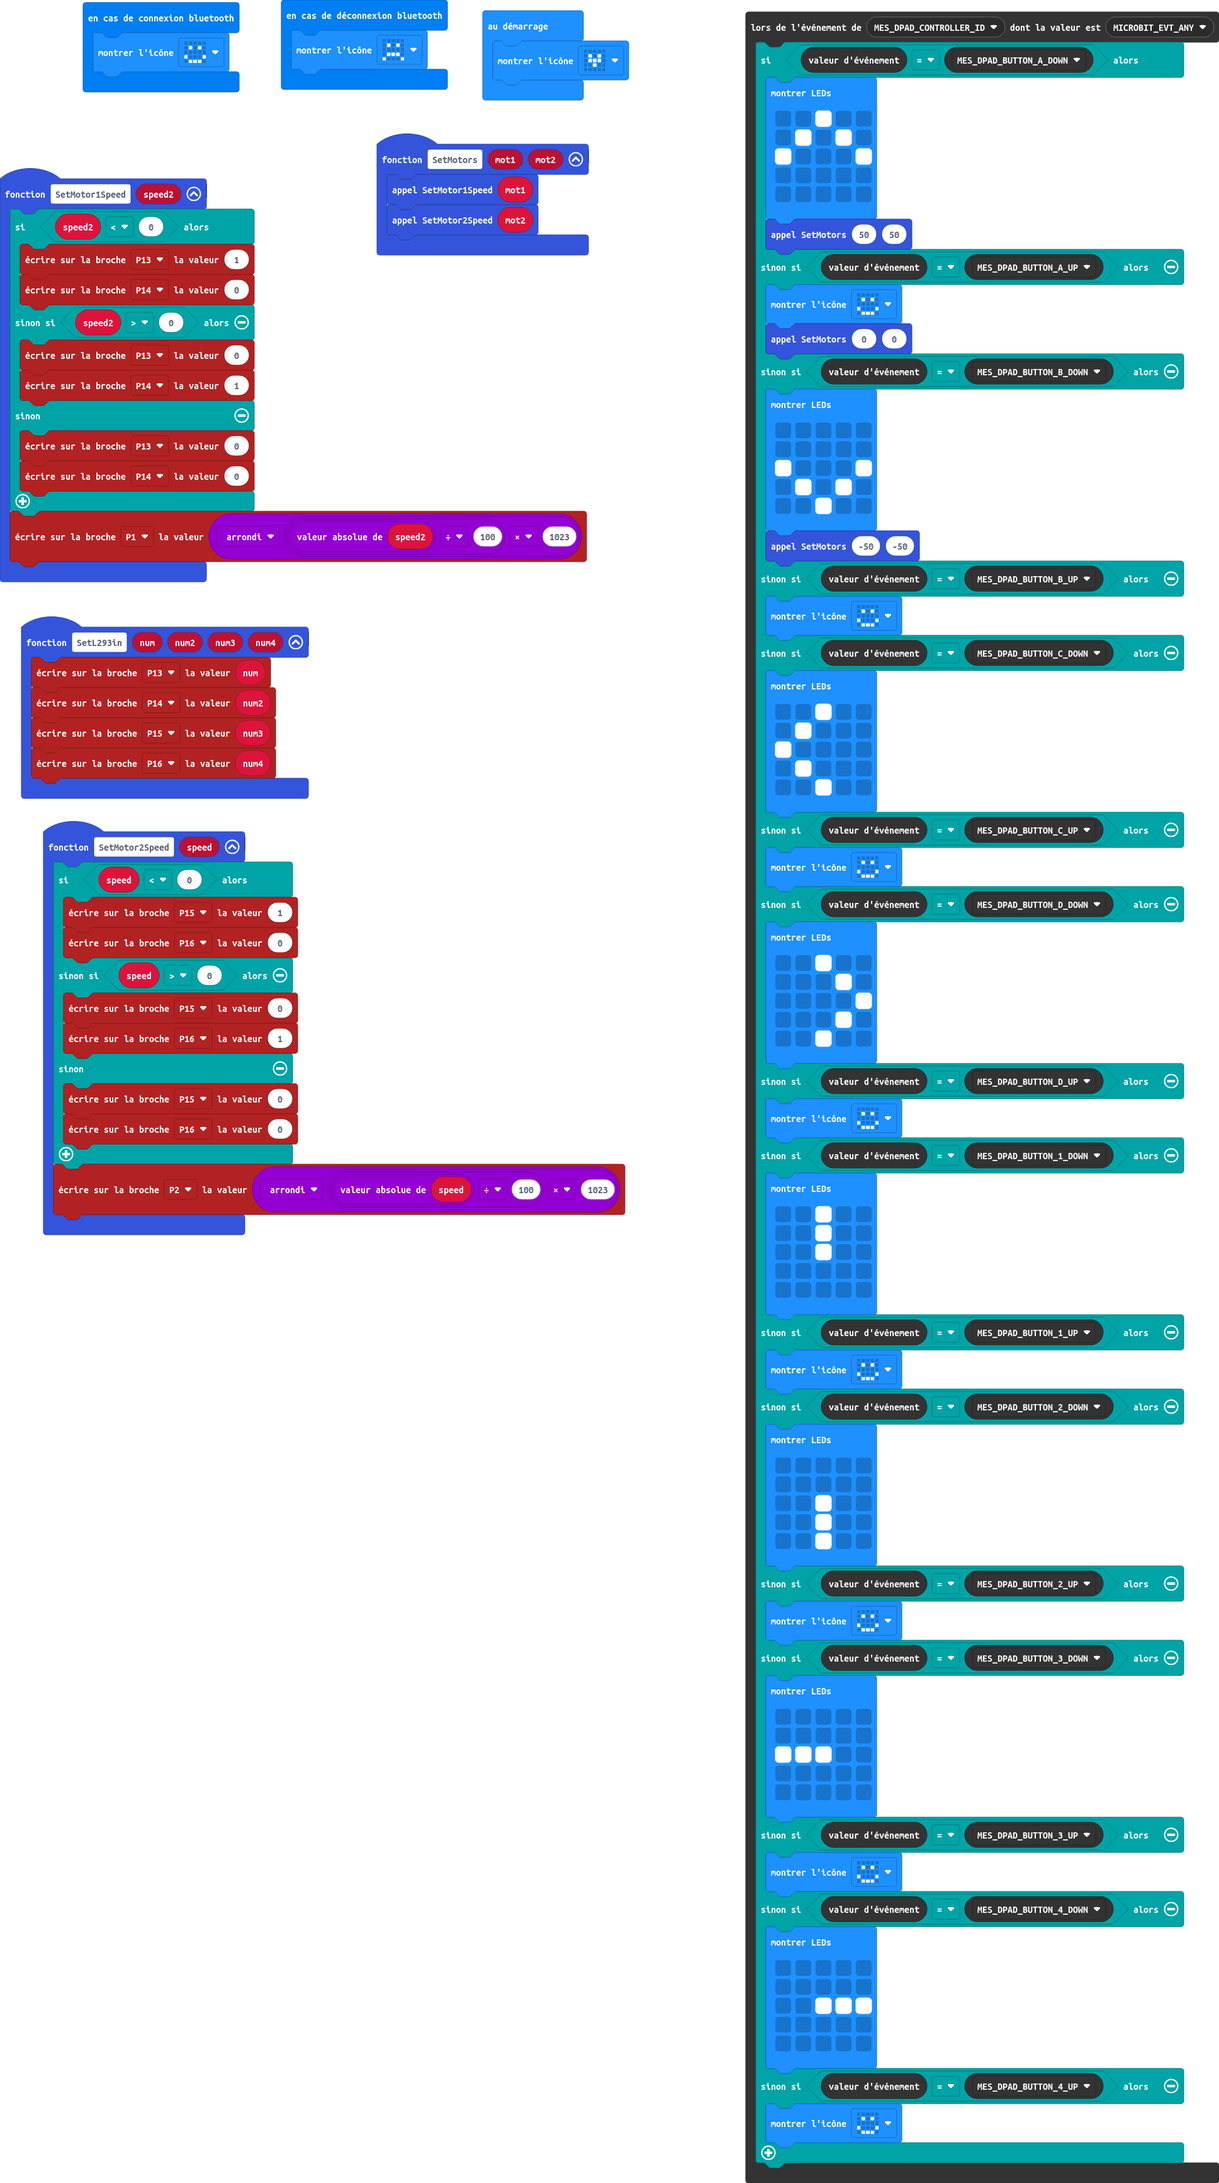
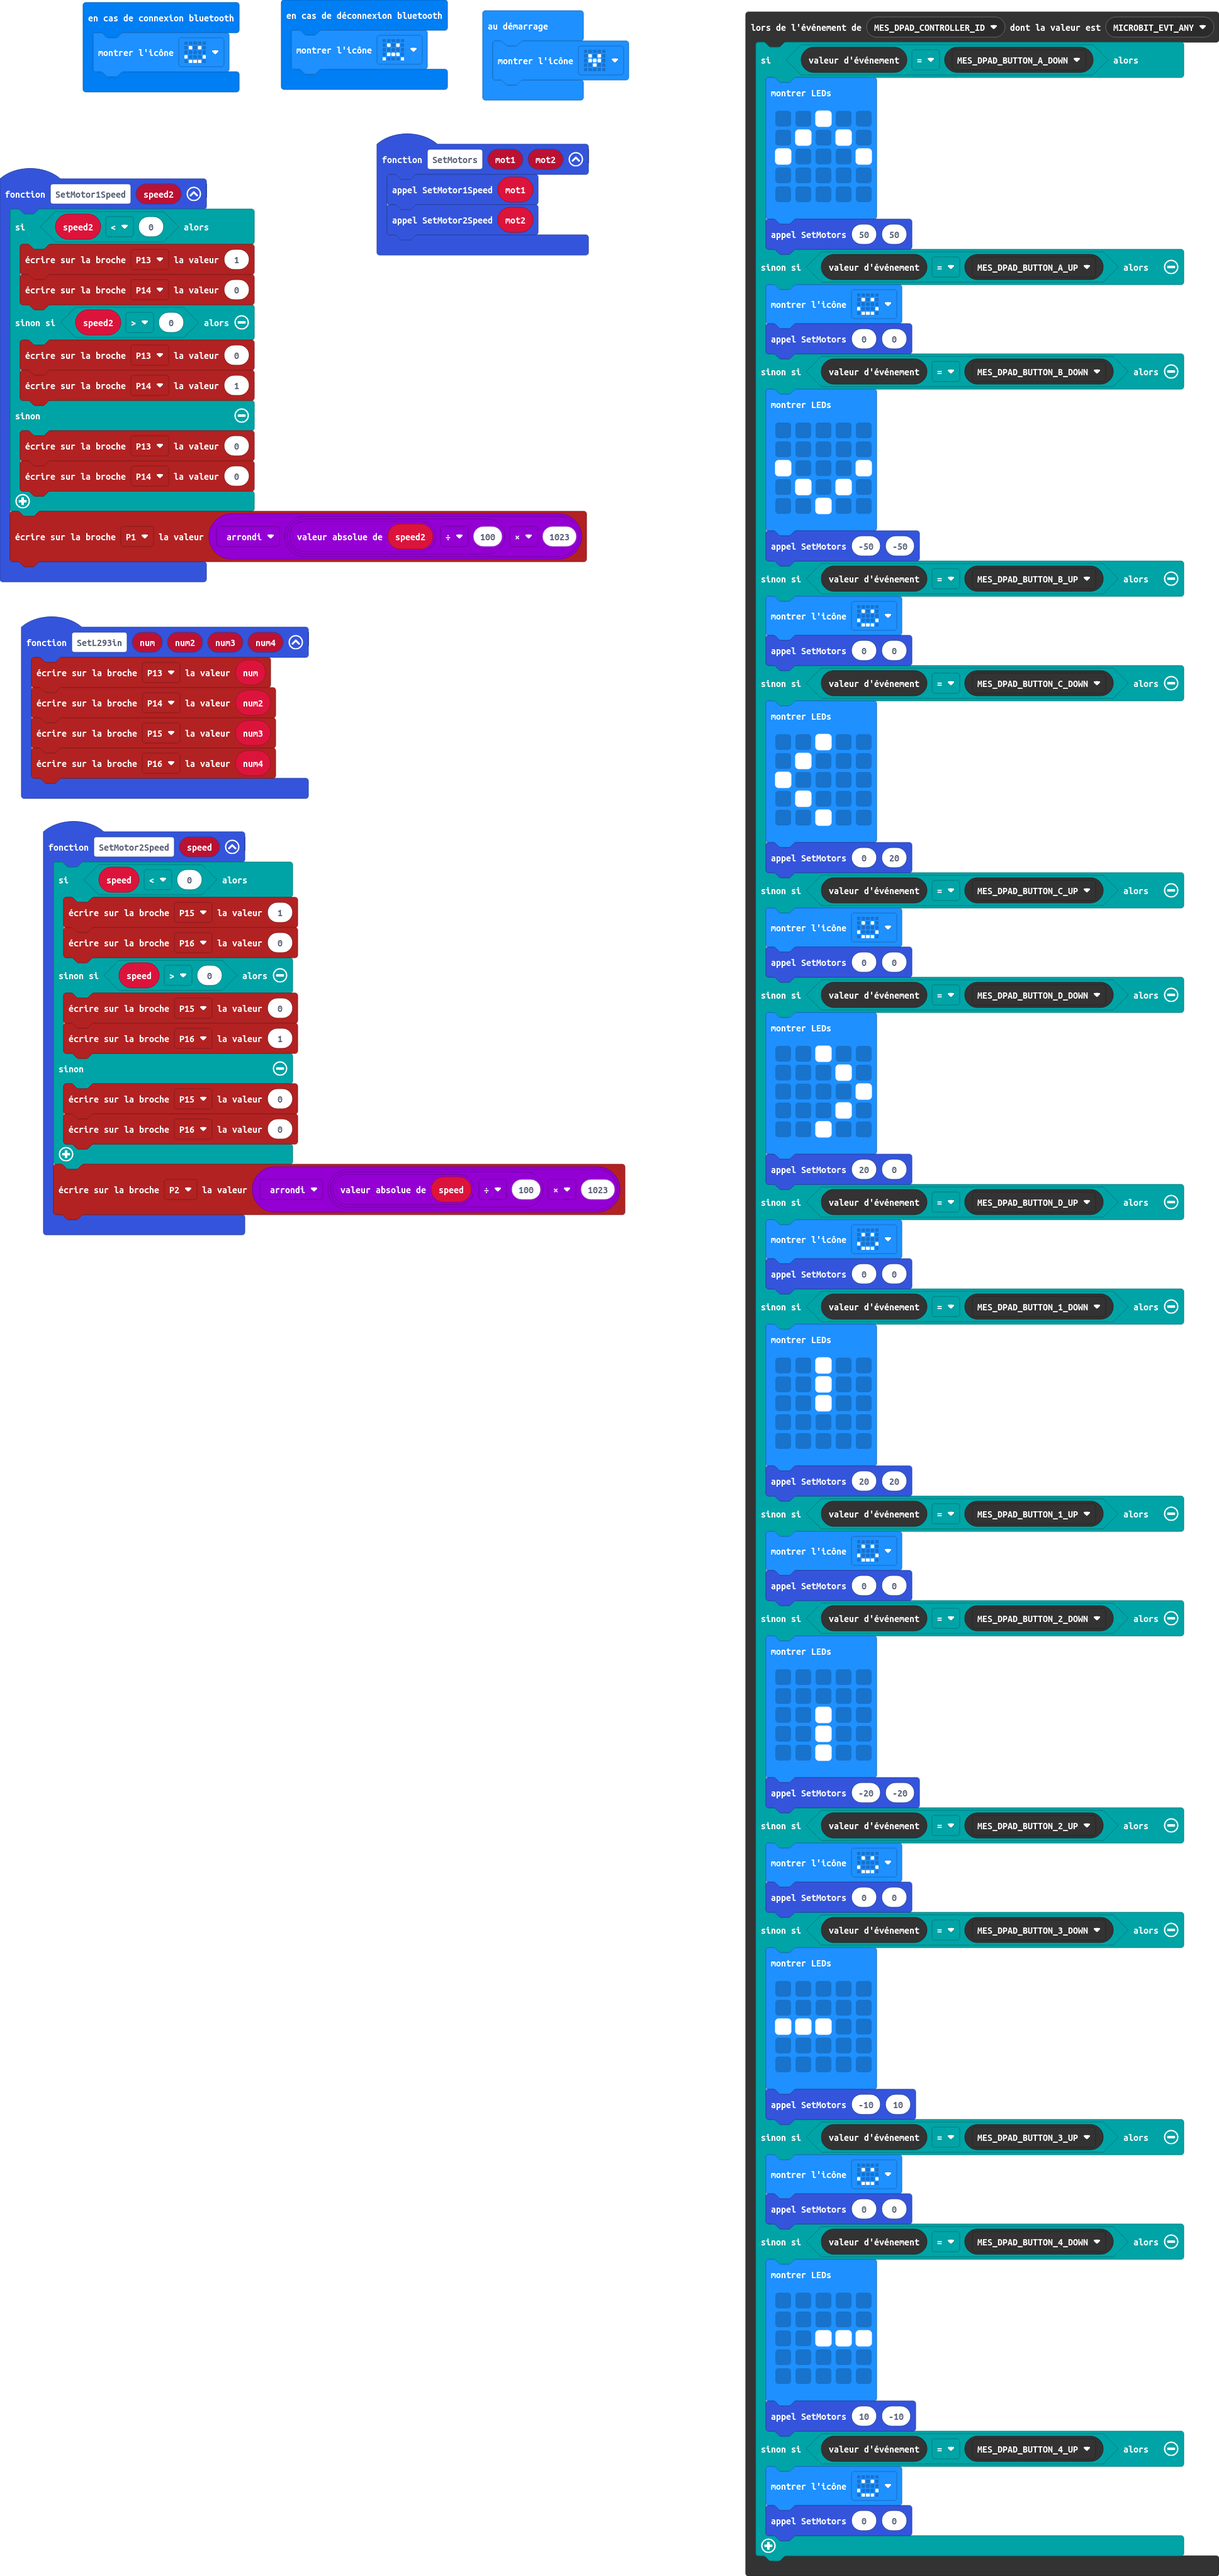
Mise à jour main.blocks, main.ts

Changed region(s): [[0.6195, 0.0, 1.0, 0.9968], [0.0, 0.0, 0.5266, 0.5919]]

diff --git a/main.ts b/main.ts
@@ -64,6 +64,7 @@ control.onEvent(EventBusSource.MES_DPAD_CONTROLLER_ID, EventBusValue.MICROBIT_EV
         SetMotors(-50, -50)
     } else if (control.eventValue() == EventBusValue.MES_DPAD_BUTTON_B_UP) {
         basic.showIcon(IconNames.Happy)
+        SetMotors(0, 0)
     } else if (control.eventValue() == EventBusValue.MES_DPAD_BUTTON_C_DOWN) {
         basic.showLeds(`
             . . # . .
@@ -72,8 +73,10 @@ control.onEvent(EventBusSource.MES_DPAD_CONTROLLER_ID, EventBusValue.MICROBIT_EV
             . # . . .
             . . # . .
             `)
+        SetMotors(0, 20)
     } else if (control.eventValue() == EventBusValue.MES_DPAD_BUTTON_C_UP) {
         basic.showIcon(IconNames.Happy)
+        SetMotors(0, 0)
     } else if (control.eventValue() == EventBusValue.MES_DPAD_BUTTON_D_DOWN) {
         basic.showLeds(`
             . . # . .
@@ -82,8 +85,10 @@ control.onEvent(EventBusSource.MES_DPAD_CONTROLLER_ID, EventBusValue.MICROBIT_EV
             . . . # .
             . . # . .
             `)
+        SetMotors(20, 0)
     } else if (control.eventValue() == EventBusValue.MES_DPAD_BUTTON_D_UP) {
         basic.showIcon(IconNames.Happy)
+        SetMotors(0, 0)
     } else if (control.eventValue() == EventBusValue.MES_DPAD_BUTTON_1_DOWN) {
         basic.showLeds(`
             . . # . .
@@ -92,8 +97,10 @@ control.onEvent(EventBusSource.MES_DPAD_CONTROLLER_ID, EventBusValue.MICROBIT_EV
             . . . . .
             . . . . .
             `)
+        SetMotors(20, 20)
     } else if (control.eventValue() == EventBusValue.MES_DPAD_BUTTON_1_UP) {
         basic.showIcon(IconNames.Happy)
+        SetMotors(0, 0)
     } else if (control.eventValue() == EventBusValue.MES_DPAD_BUTTON_2_DOWN) {
         basic.showLeds(`
             . . . . .
@@ -102,8 +109,10 @@ control.onEvent(EventBusSource.MES_DPAD_CONTROLLER_ID, EventBusValue.MICROBIT_EV
             . . # . .
             . . # . .
             `)
+        SetMotors(-20, -20)
     } else if (control.eventValue() == EventBusValue.MES_DPAD_BUTTON_2_UP) {
         basic.showIcon(IconNames.Happy)
+        SetMotors(0, 0)
     } else if (control.eventValue() == EventBusValue.MES_DPAD_BUTTON_3_DOWN) {
         basic.showLeds(`
             . . . . .
@@ -112,8 +121,10 @@ control.onEvent(EventBusSource.MES_DPAD_CONTROLLER_ID, EventBusValue.MICROBIT_EV
             . . . . .
             . . . . .
             `)
+        SetMotors(-10, 10)
     } else if (control.eventValue() == EventBusValue.MES_DPAD_BUTTON_3_UP) {
         basic.showIcon(IconNames.Happy)
+        SetMotors(0, 0)
     } else if (control.eventValue() == EventBusValue.MES_DPAD_BUTTON_4_DOWN) {
         basic.showLeds(`
             . . . . .
@@ -122,8 +133,10 @@ control.onEvent(EventBusSource.MES_DPAD_CONTROLLER_ID, EventBusValue.MICROBIT_EV
             . . . . .
             . . . . .
             `)
+        SetMotors(10, -10)
     } else if (control.eventValue() == EventBusValue.MES_DPAD_BUTTON_4_UP) {
         basic.showIcon(IconNames.Happy)
+        SetMotors(0, 0)
     }
 })
 basic.showIcon(IconNames.SmallHeart)
